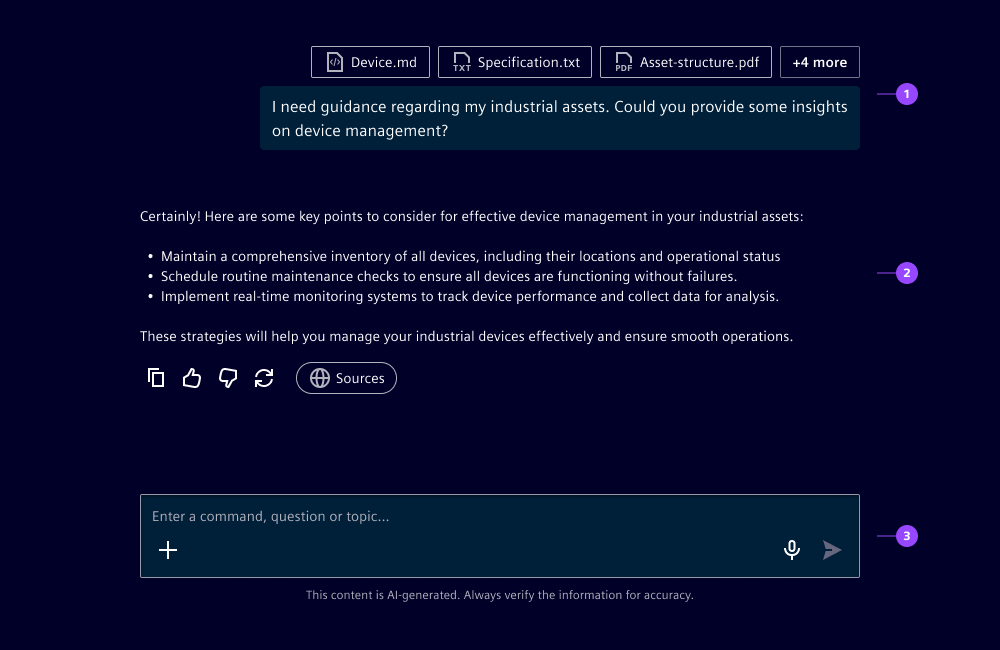
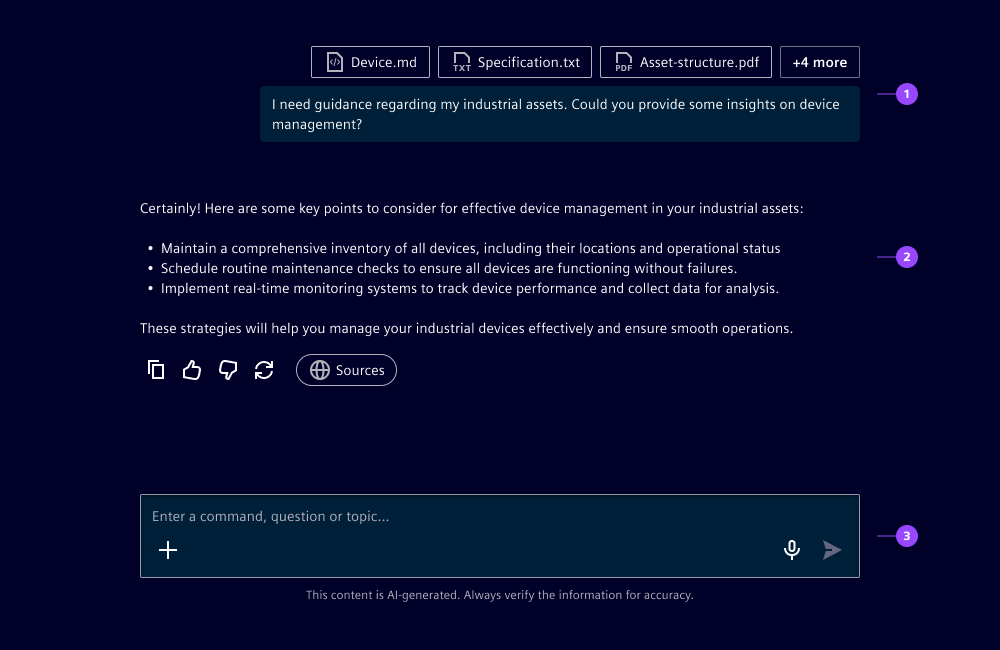
Applied feedback from review
Add a new Chat attachment usage guide (anatomy, options, behavior, states, dos/don’ts) and include a related Figma image. Refine copy across chat-related docs: AI message, Chat input, and User message (clarify wording and responsiveness). Update sidebars labels for chat and chat-attachment, and update/add several Figma static images.

diff --git a/sidebars.ts b/sidebars.ts
@@ -1133,7 +1133,7 @@ const sidebars: SidebarsConfig = {
       items: [
         createTabItem({
           id: 'components/chat/index',
-          label: 'Overview',
+          label: 'Chat',
           items: [
             {
               id: 'components/chat/guide',
@@ -1189,7 +1189,7 @@ const sidebars: SidebarsConfig = {
         }),
         createTabItem({
           id: 'components/chat-attachment/index',
-          label: 'Chat user message',
+          label: 'Chat attachment',
           items: [
             {
               id: 'components/chat-attachment/guide',

diff --git a/docs/components/chat-attachment/guide.md b/docs/components/chat-attachment/guide.md
@@ -1,10 +1,46 @@
 ---
 doc-type: 'tab-item'
-description: 'Usage guide for AI message'
+description: 'Usage guide for chat attachment'
 ---
 
 # Chat attachment - Usage
 
-Used to display a single response generated by the AI in a conversational chat thread
+Chat attachments display files that users add to a chat prompt. We recommend using them in [chat inputs](../chat-input) while users compose a message and in [user messages](../user-message) after submission to preserve the full request context.
 
-content will come here
+![Chat attachment anatomy](https://www.figma.com/design/wEptRgAezDU1z80Cn3eZ0o/iX-Documentation-illustrations?node-id=7970-230&t=HrpSIFfB7yjzt741-4)
+
+1. File icon
+2. File name
+3. Remove button
+
+## Options
+
+- **File icon:** Show a recognizable file-type icon so users can identify attachments quickly, e.g. [pdf-document](./docs/icons/icon-library#pdf-document).
+- **File name:** Show the file name including the file extension.
+- **Remove button:** Show remove buttons in a [chat input](../chat-input/), and hide it once an attachment is part of a submitted [message](../user-message/).
+- **Preview supported:** Use only for supported files to show e.g. thumbnails.
+
+## Behavior in context
+
+- **Chat input context:** If attachments exceed the chat input's width, they overflow into a scrollable horizontal list.
+- **User message context:** If attachments exceed the user message container's width, a more button is visible.
+- **Text overflow:** If an attachment exceeds `20rem`, the file name is truncated at the end while preserving the file extension.
+
+## States
+
+Chat attachments have six states: default, hover, active, loading, focused and error.
+
+Chat attachments follow the [chip](../chip) interaction model, including hover, active and focused behavior. In an error state, attachments stay visible and show clear feedback so users can retry or remove files.
+
+## Dos and Don’ts
+
+- Do keep submitted attachments visible in user messages so conversation context stays traceable
+- Don’t hide the remove action while users are still composing a prompt in the [chat input](../chat-input/)
+- Don’t detach attachments from their related [user message](../user-message/) after submission
+
+## Related
+
+- [Chat](../chat)
+- [Chat input](../chat-input)
+- [Chip](../chip)
+- [User message](../user-message)

diff --git a/docs/components/ai-message/guide.md b/docs/components/ai-message/guide.md
@@ -5,7 +5,7 @@ description: 'Usage guide for AI message'
 
 # AI message - Usage
 
-AI messages display a single assistant response inside a conversational thread. We recommend using them for answers users need to read, review and act on, not for transient status updates that fit better in [toasts](../toast) or [progress indicators](../progress-indicator).
+AI messages display a single assistant response inside a conversational thread. We recommend using them for answers users need to read, review and act on.
 
 ![AI message anatomy](https://www.figma.com/design/wEptRgAezDU1z80Cn3eZ0o/iX-Documentation-illustrations?node-id=7959-520&t=8Rj3ErabF16Vm3lH-4)
 
@@ -20,15 +20,14 @@ AI messages display a single assistant response inside a conversational thread. 
 
 ## Behavior in context
 
-- **Responsiveness:** AI messages use 45 to 80 % of the chat container width.
+- **Responsiveness:** AI messages use from 45 to 80 % of the chat's container width, depending on the viewport width.
 
 ## Dos and Don’ts
 
-
 - Do structure longer responses into short paragraphs or lists so users can scan them quickly
 - Do show clear [loading indicators](../spinner/) while the assistant is processing
-- Do offer only the few actions users commonly need after reading, e.g. copy, feedback or regenerate
 - Do show sources or evidence when the response refers to external or retrieved information
+- Don't overuse actions by focusing only on the few actions users commonly need after reading, e.g. copy, feedback, regenerate
 - Don’t present speculative or low-confidence output as if it were verified fact
 
 ## Related

diff --git a/docs/components/chat-input/guide.md b/docs/components/chat-input/guide.md
@@ -5,7 +5,7 @@ description: 'Usage guide for chat input'
 
 # Chat input - Usage
 
-Chat inputs help users compose and send short conversational messages in chat and assistant experiences. We recommend using them for quick, iterative exchanges, not for long-form forms or multi-step data entry.
+Chat inputs help users compose and send short conversational messages in chat experiences. We recommend using them for quick, iterative exchanges, not for multi-step data entries.
 
 ![Anatomy component](https://www.figma.com/design/wEptRgAezDU1z80Cn3eZ0o/iX-Documentation-illustrations?node-id=7940-7427&t=mrtbkWj76QJhvNLI-11)
 
@@ -21,7 +21,7 @@ Chat inputs help users compose and send short conversational messages in chat an
 
 - **Placeholder:** Use clear, contextual prompts, e.g. “Enter a command, question or topic…”
 - **Follow-up slot:** Optionally include a slot for follow-up questions. We typically use tertiary outline [buttons](../button) or [icon buttons](../icon-button) for that purpose.
-- **Attachment slot:** Optionally include a slot for [attachments](#).
+- **Attachment slot:** Optionally include a slot for [attachments](../chat-attachment/).
 - **Start slot:** Add secondary actions. We recommend using tertiary outline [icon buttons](../icon-button) and trying to stick to one action. If you have more than one action, use [dropdown buttons](../dropdown-button/).
 - **End slot:** Use this slot to add alternative input methods, e.g. voice input.
 - **Disclaimer:** In AI contexts, include a short visible disclaimer near the input.

diff --git a/docs/components/user-message/guide.md b/docs/components/user-message/guide.md
@@ -23,8 +23,8 @@ User messages display a single prompt submitted by users in a conversational thr
 
 - **Interaction:** User messages keep the submitted prompt visible as the main record of what users asked.
 - **Actions:** Message actions are only shown when users hover over the message with a mouse, tap the message on touch devices or reach the message with the `Tab` key.
-- **Placement:** We usually keep attachments above or alongside the message content inside the same container so users can review the full prompt context at a glance.
-- **Responsiveness:** User messages take 45 to 80 % of the chat container width.
+- **Placement:** User messages are always placed on the right side of the [chat](../chat/) to visually distinguish them from [AI messages](../ai-message) on the left side.
+- **Responsiveness:** User messages take from 45 to 80 % of the chat's container width, depending on the viewport width.
 
 ## Dos and Don’ts
 

diff --git a/docs/components/chat/guide.md b/docs/components/chat/guide.md
@@ -29,3 +29,5 @@ Chats are the outer containers that bring together the three building blocks of 
 - [Chat input](../chat-input)
 - [User message](../user-message)
 - [AI message](../ai-message)
+- [Conversational design guidelines](../../guidelines/conversational-design/getting-started)
+- [SDL AI UX Guidelines](https://www.figma.com/design/KbgPxj7qLgngXkJfnDM4Ty/SDL-AI-UX-Guidelines?t=Kv2aR7JVmhNYuR1S-0) (can be accessed exclusively by Siemens AG employees)